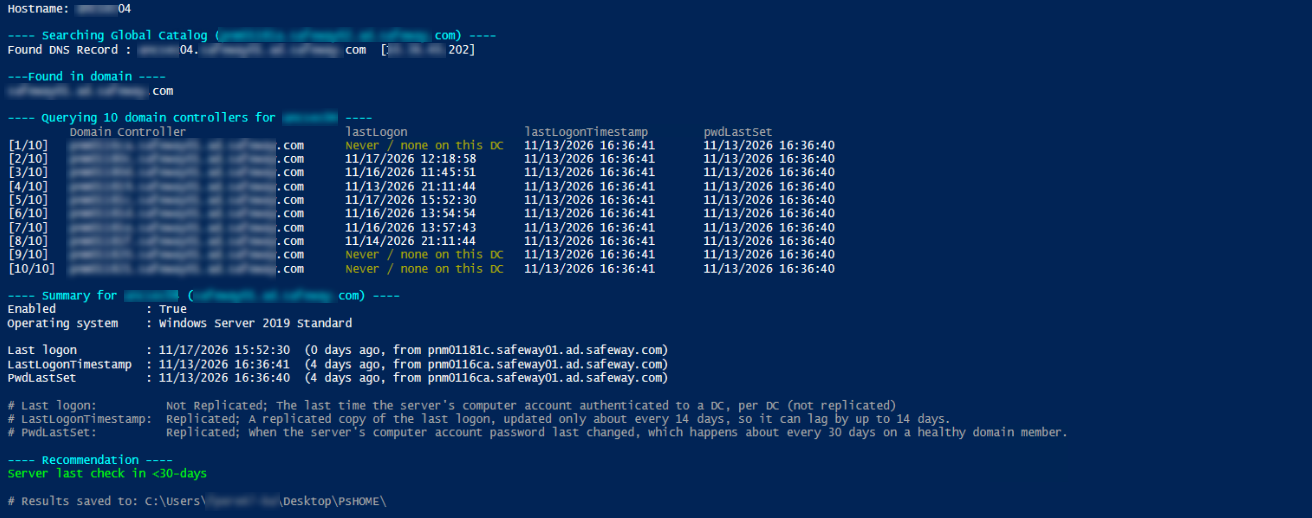
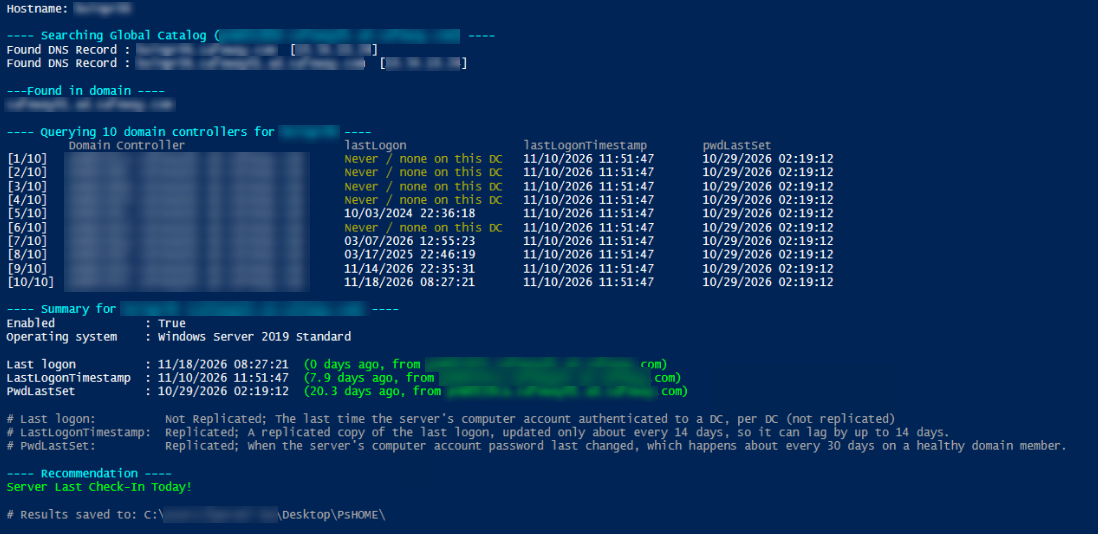
Update AD-Object-Status-SINGLE colors, recommendation text and screenshot
- Age text green within 30 days, yellow when older
- Recommendation shows days since Last logon rounded up (or Today)
- Replace screenshot with redacted version

diff --git a/bin-Query/AD-Object-Status-SINGLE.md b/bin-Query/AD-Object-Status-SINGLE.md
@@ -82,7 +82,7 @@ function Write-Cell($d, $width = 26, [switch]$Last) {
 function Write-Orange($text, [switch]$NoNewline) {
     if ($Host.UI.SupportsVirtualTerminal -and $Host.Name -eq 'ConsoleHost') {
         $esc = [char]27
-        Write-Host "$esc[38;5;208m$text$esc[0m" -NoNewline:$NoNewline
+        Write-Host "$esc[93m$text$esc[0m" -NoNewline:$NoNewline
     } else {
         Write-Host $text -ForegroundColor Yellow -NoNewline:$NoNewline
     }
@@ -103,7 +103,7 @@ function Show-Line($label, $prop) {
         # Age text: default color within the threshold, orange if older
         $age = "($days days ago, from $($r.DC))"
         if ($days -le $thresholdDays) {
-            Write-Host $age
+            Write-Host $age -ForegroundColor Green
         } else {
             Write-Orange $age
         }
@@ -234,7 +234,15 @@ foreach ($obj in $found) {
     if (-not $newest -or ((Get-Date) - $newest).TotalDays -gt $thresholdDays) {
         Write-Host "Last check-in >30days... Recommend Decommission" -ForegroundColor Magenta
     } else {
-        Write-Host "Server last check in <30-days" -ForegroundColor Green
+        # Days since Last logon (same rounding as the summary line), rounded up to the next whole day
+        $llNewest = (Get-Newest 'LastLogon').LastLogon
+        if (-not $llNewest) { $llNewest = $newest }
+        $llDays = [math]::Round(((Get-Date) - $llNewest).TotalDays, 1)
+        if ($llDays -le 0) {
+            Write-Host "Server Last Check-In Today!" -ForegroundColor Green
+        } else {
+            Write-Host "Server Last Check-In < $([math]::Ceiling($llDays)) days ago" -ForegroundColor Green
+        }
     }
 }
 
